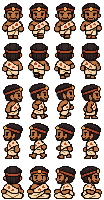
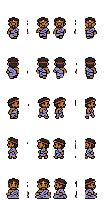
Dress Kang in light indigo and deliver cozy watercolor portrait and bust events

diff --git a/test/kangPaintings.test.ts b/test/kangPaintings.test.ts
@@ -1,0 +1,31 @@
+import {readFileSync} from 'node:fs';
+import {join} from 'node:path';
+import {expect,it} from 'vitest';
+import {portraitFor} from '../src/ui/portraits';
+import {preferredArt} from '../src/ui/art';
+import {beatEvent,storylines} from '../src/content/storylines';
+
+function dimensions(file:string):number[]{
+  const png=readFileSync(file);
+  expect(png.subarray(1,4).toString()).toBe('PNG');
+  return [png.readUInt32BE(16),png.readUInt32BE(20)];
+}
+
+it('shows Kang’s delivered watercolor in his conversation, without the silhouette fallback',()=>{
+  expect(portraitFor('npc_priest_kang')).toMatch(/priest-kang-painted/);
+  const file=join(__dirname,'../src/ui/portraits/priest-kang-painted.png');
+  expect(dimensions(file)).toEqual([256,256]);
+  expect([2,6]).toContain(readFileSync(file)[25]); // Full-colour RGB/RGBA, never an indexed palette.
+});
+
+it('resolves the carving and unveiling cards to their distinct delivered paintings',()=>{
+  const arc=storylines.find(s=>s.id==='storyline_twin_kang_bust')!;
+  for(const id of ['carving','unveiling']){
+    const beat=arc.beats.find(b=>b.id===id)!, event=beatEvent(arc,beat);
+    const picture=preferredArt('events',[event.artVariant,event.art,event.artFallback]);
+    expect(picture).toContain(`story-storyline_twin_kang_bust-${id}-painted`);
+    const file=join(__dirname,`../src/ui/events/story-storyline_twin_kang_bust-${id}-painted.png`);
+    expect(dimensions(file)).toEqual([512,384]);
+    expect([2,6]).toContain(readFileSync(file)[25]);
+  }
+});

diff --git a/src/content/storylines.ts b/src/content/storylines.ts
@@ -165,6 +165,9 @@ export function beatEvent(arc: Storyline, beat: Beat): GameEvent {
     // A beat with no painting of its own borrows the arc's person's face nowhere: the card keeps its
     // shape and shows the night's scene or nothing, as every event without art does.
     art: beat.art ?? `story-${arc.id}`,
+    // Delivered beat paintings take precedence over the arc's shared fallback. Canon's explicit
+    // art remains authoritative; presentation-only illustrations need no canon content change.
+    ...(!beat.art ? { artVariant: `story-${arc.id}-${beat.id}` } : {}),
     // ...or, on the road or on arriving, a woven painting of the same kind of moment (`BEAT_FALLBACK`):
     // the card was blank for Guyuk's rumour and for the Atelier without her (the owner, 3 October 2026).
     ...(BEAT_FALLBACK[beat.when] ? { artFallback: BEAT_FALLBACK[beat.when] } : {}),

diff --git a/e2e/twin-stories.spec.ts b/e2e/twin-stories.spec.ts
@@ -19,6 +19,9 @@ test('Kang offers an optional commission and keeps a declined invitation open', 
   await expect(page.getByRole('dialog', { name: 'A Place for a Likeness' })).not.toBeVisible();
   const ask = async () => {
     await page.locator('button.who').filter({ hasText: 'Priest Kang' }).click();
+    const portrait=page.locator('.conversation img.person-portrait').first();
+    await expect(portrait).toHaveAttribute('src',/priest-kang-painted/);
+    await expect.poll(()=>portrait.evaluate((img:HTMLImageElement)=>img.complete&&img.naturalWidth===256)).toBe(true);
     await page.getByRole('button', { name: 'Ask about making the bust', exact: true }).click();
   };
   await ask();

diff --git a/docs/twin-kang-watercolor-prompts.md b/docs/twin-kang-watercolor-prompts.md
@@ -1,0 +1,45 @@
+# Kang — light indigo and cozy watercolor update
+
+Owner update, 17 November 2026. Style reference: `exec-ad76b05a-607c-4b1a-b4b8-d00b7ef007c3.png`
+from the supplied local generated-images folder. The reference controls watercolor style;
+Kang's established sprite controls identity. His new portrait then controls both event cards.
+The map bust remains carved sandstone. The live character always wears light indigo.
+
+## Exact prompts
+
+### Indigo NES JRPG character
+
+> Edit the SECOND reference character sprite atlas only, using FIRST reference as context only. Preserve exact 4-column by5-row twenty-pose layout, every facing, animation, cute face, beard, headband, skin and proportions. Change Priest Kang's cream dress and wrap skirt to LIGHT INDIGO: airy pale lavender-blue naturally dyed cloth with muted darker indigo fold shadows and few simple darker indigo trefoil motifs. His skin stays warm brown. Exact art direction 'nes jrpg sprite'. Keep chunky simple 8-bit pixels, not painted. Walking rows south,north,east,west; seated row north,south,west,east. Fully transparent background, generous transparent gutters separating5rows and4columns, no halo, no labels. All twenty poses remain same person wearing same light indigo dress. Logical target26x40 per pose. No new props. Render the sprite atlas ONLY.
+
+### Conversation portrait
+
+> Paint a square head-and-shoulders conversation portrait of Priest Kang for a cozy naturalist game. FIRST reference controls simple cozy watercolor and fine ink on warm cream paper, warm sunlight, restrained earth colours, gentle broad washes, uncluttered leafy Harappan courtyard background. SIMPLIFY the reference's tiny photographic texture, soft storybook watercolor, not anime, not pixel art. SECOND reference controls identity only: adult Harappan man warm medium-brown skin, handsome strong square jaw and cheekbones, straight broad nose, calm slightly narrowed eyes, slicked short dark hair, short neat dark beard and moustache, narrow headband with round central ornament. His LIGHT INDIGO one-shoulder dress/cloak is the prominent colour; airy pale lavender-blue natural-dyed cloth, a few broad subtle trefoil motifs, light indigo lower wrap implied. Do not use cream as his main dress. Friendly confident quiet smile, eye contact at slight three-quarter angle. Evoke the Indus Priest-King facial features as a fictional living character, no crown, no fantasy armor, no text or frame. Readable at native256x256 delivery, simple watercolor portrait, no microscopic detail.
+
+### Carving event
+
+> Create a wide4:3 event-card watercolor painting for a cozy peaceful naturalist JRPG. FIRST reference controls warm cream paper, cozy simple watercolor with loose fine ink and broad gentle washes; simplify detail and tiny texture, NOT pixel art, NOT anime. SECOND reference controls Priest Kang's face and LIGHT INDIGO one-shoulder dress exactly: warm brown Harappan man, short dark beard, square jaw, slicked dark hair, headband with round medallion. He wears pale lavender-blue indigo cloth with subtle broad trefoil motifs. Ancient Harappan brick architecture, no fantasy crown, no modern tools, no text, no labels, no graphic border. Readable at512x384 delivery. Keep important faces and action within central80percent with airy margins. Scene: A Face Coming Out of Stone. A local Harappan stone carver works gently with a small chisel and wooden mallet on a pale sandstone life-size head-and-shoulders bust of Kang in a shady open-sided earthen workshop. Kang sits nearby in his light indigo dress, watching his likeness with a gentle smile. The bust repeats his short beard, headband and one-shoulder cloak in carved sandstone, NOT living skin or indigo painted stone. The bust on a low bench has a partly roughed shoulder, its face almost complete. A clay study and reused brick base nearby explain the craft. One other maker steadies the modest base. Quiet collaborative afternoon, warm indirect sunlight, simple clear composition with carver/bust/Kang focal triangle, respectful believable hands, no violence, no giant monument.
+
+### Unveiling event
+
+> Create a wide4:3 event-card watercolor painting for a cozy peaceful naturalist JRPG. FIRST reference controls warm cream paper, cozy simple watercolor with loose fine ink and broad gentle washes; simplify detail and tiny texture, NOT pixel art, NOT anime. SECOND reference controls Priest Kang's face and LIGHT INDIGO one-shoulder dress exactly: warm brown Harappan man, short dark beard, square jaw, slicked dark hair, headband with round medallion. He wears pale lavender-blue indigo cloth with subtle broad trefoil motifs. Ancient Harappan brick architecture, no fantasy crown, no modern tools, no text, no labels, no graphic border. Readable at512x384 delivery. Keep important faces and action within central80percent with airy margins. Scene: A Likeness With Room Around It. In Harappa's living courtyard beneath a neem tree, the completed life-size sandstone head-and-upper-chest bust of Priest Kang stands on a modest low reused-brick plinth, outside the tree root ring. Kang in light indigo dress stands beside it, clearly recognizable as the sitter; the statue repeats his face/headband/beard/cloak in stone tones. A Harappan woman gardener in muted green and a local maker admire the work, another resident sits peacefully beside water jars in the shade. Clear wide walking passage, roots undisturbed. Soft morning sunshine, gentle shared satisfaction, ordinary welcoming civic life rather than a royal ceremony, no crowd or banners, no oversized statue. Loose cozy watercolor with restrained earth palette and light indigo focal cloth.
+
+## Delivery and wiring
+
+- Character raw `exec-c43e0cf2-ac5a-4e17-b683-ed08b43161e5.png`; compact RGBA source and runtime
+  twenty-frame strip replace Kang's previous cream clothing using crop/nearest-neighbour resize.
+- Portrait raw `exec-12719a34-8e09-4302-af85-708960758556.png`, delivered at 256×256 as
+  `src/ui/portraits/priest-kang-painted.png`.
+- Carving raw `exec-fe6dcc95-6c2c-419d-a2e3-bee7b2a3dd0d.png`, delivered at 512×384 as
+  `src/ui/events/story-storyline_twin_kang_bust-carving-painted.png`.
+- Unveiling raw `exec-8666ea6d-463a-4f25-b46d-f02fffcc9714.png`, delivered at 512×384 as
+  `src/ui/events/story-storyline_twin_kang_bust-unveiling-painted.png`.
+- Large raw paintings stay under existing ignored `assets/source/portraits/` and `assets/source/events/`;
+  sprite raw stays under ignored `dump/twin-city-art-review/kang/`. Track only compact runtime art,
+  the compact sprite source and this production ledger.
+- Rebuild portrait with `node tools/build-plates.js --portraits --full-colour --only=priest-kang-painted`.
+  Rebuild each event with `--events --full-colour --only=<filename without .png>`.
+  No palette reduction, quantization or lossy image compression. Existing accepted images remain.
+- `portraitFor('npc_priest_kang')` automatically prefers the new named portrait.
+  `beatEvent` now supplies a beat-specific art variant when canon has no explicit artwork.
+  EventCard resolves that variant before its shared arc/arrival fallback; canon's explicit art
+  stays authoritative. No extra quest is added and no story prose is duplicated or rewritten.

diff --git a/docs/twin-cities-art-status.md b/docs/twin-cities-art-status.md
@@ -1,0 +1,104 @@
+# Harappan phased plan — completion audit
+
+17 November 2026. Current companion to the [original plan](twin-cities-art-plan.md).
+Counts are checked against the exported valley roster and delivered preferred paintings.
+Existing pixel editions remain playable fallbacks; these are remaining paintings, not missing quests.
+
+## Completed
+
+- Accepted city map, north/south bridge correction, terrain depth, house/courtyard detail,
+  riverbanks and terminal turns. No further detailed map repaint is required.
+- Sixteen places and fifteen named NPC identities, ethnicity/language metadata and names,
+  conversation goals, saved-map cave addition and optional story states.
+- Beedu: accepted small SNES art, one coastal flyer, sand emergence/return, shadow,
+  actual-sighting event and witness dialogue. Leave its accepted image unchanged.
+- Cave: generated Mirlepa/Yamantaka NES JRPG sheets, alternating local walks/seated rests,
+  intermittent helpers and prayer flags/Icmic cooker/bonfire with six monthly arrangements.
+- Generated NES JRPG fox, otter, crane, pelican and sixteen ostrich-tram poses.
+- Four generated named NES JRPG identities: Nemi, Kang, Mirlepa and Yamantaka. The other
+  eleven retain existing compact NES sheets; replacements are optional scope.
+- All thirteen main conversation portraits now have preferred painted deliveries, including
+  Kang in light indigo. Denisovan portraits retain their approved anime exception.
+- Kang's optional five-beat commission/site/preparation/carving/unveiling quest, persistent
+  three-stage life-size NES JRPG bust, and distinct cozy watercolor carving/unveiling cards.
+- Art direction matrix, prompt ledgers and ignored screenshot/raw-art storage.
+
+## Remaining phases
+
+| Phase | Required deliverable | Planning effort |
+| --- | --- | --- |
+| A. Events and travel | 19 event paintings, prioritizing cave welcome and Beedu sighting; 2 journey banners | 1–2 focused days |
+| B. Place views | 15 cozy watercolor panels, including Windward Cave; maintain identity/ecology | 1–2 focused days |
+| C. Integrated review | Card crops, map readability, dusk/fog, both input modes, cave timing, Beedu, tram turns, save/reload and frame cost; fix findings; exact-head CI and owner review/merge | 0.5–1 focused day, plus pipeline time |
+
+**36 required illustrations remain: 19 events + 15 places + 2 journeys.** Previously 39;
+Kang's portrait and two bust paintings close three items. Gameplay coding being complete does
+not close the visual programme. Estimates allow generation/continuity iterations and are not
+a completion promise. Run tests at phase boundaries.
+
+Optional outside those 36: separate commission/site/preparation card takes, bespoke helper
+portraits, generated replacements for the other eleven NPC sheets, and further seasonal
+vegetation/bird/harness polish if retained at final review. No new date system, transport route,
+quest gate or Beedu repaint is required.
+
+## Verification and publication
+
+Kang's portrait and both event paintings are registered as retained art and checked through
+the actual conversation/event art resolvers. Beat-specific image selection is game presentation;
+the existing story stays in canon. Current phase checks and exact-head CI status are recorded
+in the implementation ledger/PR. Integrated visual/performance review above remains open.
+
+## Exact remaining event paintings
+
+Target `src/ui/events/`; simple cozy watercolor.
+
+| Event | Required preferred filename |
+| --- | --- |
+| Two Cities, One Crossing | `happening_twin_arrival-painted.png` |
+| The Bank We Kept | `happening_twin_bank-painted.png` |
+| A Shadow Leaves the Sand | `happening_twin_beedu_flight-painted.png` |
+| The Cool Side | `happening_twin_brick-painted.png` |
+| A Place at Supper | `happening_twin_camp-painted.png` |
+| The Longer Road | `happening_twin_carrier-painted.png` |
+| Room Beside the Fire | `happening_twin_cave_arrival-painted.png` |
+| What the Cities Kept | `happening_twin_closing-painted.png` |
+| Where the Water Changes | `happening_twin_cove-painted.png` |
+| The Drain Left Growing | `happening_twin_drain-painted.png` |
+| The Empty Lane | `happening_twin_lane-painted.png` |
+| The Bird Knows Both Yards | `happening_twin_ostrich-painted.png` |
+| A Workshop With Tenants | `happening_twin_workshop-painted.png` |
+| Between Arrivals | `happening_valley_bird_return-painted.png` |
+| A Place at the Edge | `happening_valley_courtyard_return-painted.png` |
+| The Next Repair | `happening_valley_reed_return-painted.png` |
+| A Little Give | `happening_valley_seam-painted.png` |
+| A Room for the Tide | `happening_valley_tide_room-painted.png` |
+| The Sand That Stayed | `happening_valley_windbreak-painted.png` |
+
+## Exact remaining place views
+
+Target `src/ui/places/`; cozy watercolor.
+
+| Place | Required preferred filename |
+| --- | --- |
+| The Raised Brick Quarter | `poi_brick_quarter-painted.png` |
+| The Sheltered Caravan Ground | `poi_desert_ground-painted.png` |
+| The Divided Drain | `poi_drain_court-painted.png` |
+| The Dune Windbreak | `poi_dune_windbreak-painted.png` |
+| The Earthen Workshop | `poi_earthen_workshop-painted.png` |
+| Harappa Tram Yard | `poi_harappa_station-painted.png` |
+| The Nesting Cove | `poi_nesting_cove-painted.png` |
+| The Unroofed Rooms | `poi_nesting_ruins-painted.png` |
+| The Windward Cave | `poi_northwest_cave_camp-painted.png` |
+| The Planted Rooms | `poi_planted_ruins-painted.png` |
+| The Three Channels | `poi_reed_junction-painted.png` |
+| The Reedwright's Bank | `poi_reedwright_bank-painted.png` |
+| The Open Crossing | `poi_twin_causeway-painted.png` |
+| The Quiet Coves | `poi_twin_cove-painted.png` |
+| The Southern Landing | `poi_twin_landing-painted.png` |
+
+## Exact remaining journey banners
+
+Target `src/ui/events/`. Existing journey paintings remain fallbacks.
+
+- `journey-aravali-twins-painted.png`
+- `journey-lothal-twins-painted.png`

diff --git a/docs/twin-cities-art-plan.md b/docs/twin-cities-art-plan.md
@@ -6,9 +6,9 @@ Kang now also uses a generated **“nes jrpg sprite”** twenty-pose overworld s
 quest stages share the same face, headband, beard and cloak silhouette, rendered in sandstone.
 Both use compact RGBA sources and resize-only delivery. See [the exact prompt/rebuild ledger](twin-kang-jrpg-prompts.md).
 Four of fifteen named overworld identities now have generated JRPG sheets; the other eleven
-retain their preceding compact NES sheets. The dedicated painted Kang portrait is still pending:
-conversation currently uses the generic SVG fallback. The 39 outstanding illustrations are
-unchanged by this map-art delivery. Beedu remains unchanged.
+retain their preceding compact NES sheets. Kang now wears light indigo and has a delivered
+cozy watercolor conversation portrait plus carving and unveiling event paintings. Required
+remaining illustrations: 36 (19 happenings, 15 place views, 2 journeys). Beedu remains unchanged.
 
 ## Cave household update — 17 November 2026
 
@@ -81,21 +81,22 @@ phase, then final visual/performance review and passing CI; do not start another
 | Accepted city map, bridges, depth and terminal turns | Prior merged map work retained | Final integrated review; no detailed map regeneration |
 | Named map identities | All 15 identities built as simple NES sheets | Runtime/pipeline regression checks |
 | Cave, helpers, beedu, optional Kang bust | Implemented with canon, saved-map addition and conversation wiring | Phase-end checks and review |
-| Main cast portraits | 12 of 13 preferred portraits delivered, including corrected Kia and Denisovan designs | Kang's reference-based portrait |
+| Main cast portraits | All 13 preferred portraits delivered, including Kang in light indigo | Final integrated likeness/crop review |
 | Authored happenings | 1 of 20 has a preferred painted edition; existing pixel editions/fallbacks retained | 19 paintings, including cave welcome and beedu sighting |
 | Individual place views | 1 of 16 has a preferred painted edition | 15 views, including Windward Cave |
 | Journey banners | Existing editions retained | 2 preferred paintings |
-| Bust story illustrations | Existing story fallback is used; no missing art filename is advertised | Required carving and unveiling paintings; optional separate commission/site/preparation takes |
+| Bust story illustrations | Carving and unveiling cozy watercolor paintings delivered and selected per quest beat | Optional commission/site/preparation takes only |
 | Further ambient polish | Existing map presentation accepted | Seasonal variants and bespoke bird/harness motion remain unfinished; decide during final polish review whether to retain that scope |
-| Publication | Fresh review branches prepared in both repos | Commit, push, linked PRs and full exact-head pipeline |
+| Publication | Game PR #262 and lore art-docs PR #169 are open; lore story PR #168 merged | Latest exact-head CI, owner review and merge |
 
-**Remaining required illustration inventory: 39 images** (1 portrait + 19 happenings +
-15 place views + 2 journeys + 2 bust paintings), plus any separately retained optional takes.
-This is an asset count, not 39 coding tasks. Helpers do not require bespoke portraits.
+**Remaining required illustration inventory: 36 images** (19 happenings + 15 place views +
+2 journeys), plus separately optional takes. Kang’s portrait and both bust paintings are complete.
+This is an asset count, not 36 coding tasks. Helpers do not require bespoke portraits.
+See the [audited phased checklist and exact pending filenames](twin-cities-art-status.md).
 The current implementation can be reviewed and played with existing art fallbacks.
 
-For scheduling, reserve roughly **1–3 focused working days for illustration generation,
-inspection, continuity corrections and delivery**, then pipeline/visual review and any fixes.
+For scheduling, reserve roughly **2–4 focused working days for the remaining illustration
+batches and continuity corrections**, then **0.5–1 day for integrated visual/performance review**.
 This is a revised planning estimate, not a measured completion promise; the older 17–32 day
 estimate describes the entire story expansion from its beginning, not work still remaining.
 

diff --git a/docs/art-direction.md b/docs/art-direction.md
@@ -11,13 +11,13 @@ a request to repaint them.
 | Overworld people and helpers | **“nes jrpg sprite”** | Cute large round heads, small bodies, short limbs, expressive eyes, warm dark outlines and simple pixel clusters; use the carrier and approved Nemi/Mirlepa/Yamantaka as references |
 | Wandering animals | **“nes jrpg sprite”** | Friendly expressive faces, recognizable ears/muzzle/bill/tail, compact bodies, proper right/left/front/back views |
 | Ostrich/emu tram and new small map vehicles | **“nes jrpg sprite”** | Bird visibly pulls the carriage, clear wheels/harness/stride, genuine front/back views, existing frame sizes |
-| Priest Kang and his map bust statue | **“nes jrpg sprite”** | Matching beard, headband and cloak; three simple sandstone quest stages; [prompt ledger](twin-kang-jrpg-prompts.md). His painted dialogue portrait remains pending |
+| Priest Kang and his map bust statue | **“nes jrpg sprite”** | Matching beard, headband and cloak; three simple sandstone quest stages; [prompt ledger](twin-kang-jrpg-prompts.md). Light-indigo dress; his dialogue portrait and bust event cards use the owner’s cozy watercolor reference |
 | Northwest cave flags, cooker and bonfire | **“nes jrpg sprite”** | Simple 32px props with paired states; six five-day arrangements per journey month; [prompt ledger](twin-cave-jrpg-prompts.md) |
 | Beedu on the map | **Small 16-bit SNES pixel sprite — sole creature exception** | Accepted art stays; curved ray wings, restrained colour ramps and tail, existing small atlas/singleton/shadow/path |
 | Terrain, buildings, props, plants, boundaries | **Simple high-quality 8-bit NES-style map art** | Sparse detail and clear silhouettes/routes; quality comes from composition, layers, elevation/water separation and restrained gradient/contact shadows |
-| NPC portraits and random faces | **Painted watercolor and fine ink on warm paper** | Rich off-map detail; preserve age, culture and face/costume continuity. Kia: airy wraps/flowers. Kang: Priest-King reference with strong jaw |
+| NPC portraits and random faces | **Simple cozy watercolor and fine ink on warm paper** | Rich off-map detail; preserve age, culture and face/costume continuity. Kia: airy wraps/flowers. Kang: Priest-King reference with strong jaw |
 | Mirlepa and Yamantaka portraits only | **JoJo-inspired anime in the existing earth palette** | Fair Tibetan-inspired fictional Denisovan faces and Kalash-inspired dress; Yamantaka has three heads. Their map sprites remain NES JRPG |
-| Events, story/activity scenes, journey banners | **Rich narrative watercolor / fine ink** | Readable moment, correct people/place and depth planes, composed for the card crop; not limited to NES detail |
+| Events, story/activity scenes, journey banners | **Simple cozy narrative watercolor / fine ink** | Readable moment, correct people/place and depth planes, composed for the card crop; not limited to NES detail |
 | Place views | **Painted landscape watercolor** | Recognizable architecture/ecology, broad depth planes and wide-panel composition |
 | Species notebook plates | **Watercolor natural-history field study** | Recognizable anatomy, warm paper and a few habitat strokes; separate from map sprites |
 | UI marks, tools, categories and icons | **Existing SVG/code-native line art** | Established strokes and geometry, legible at UI size |

diff --git a/docs/twin-valley-implementation.md b/docs/twin-valley-implementation.md
@@ -1,14 +1,29 @@
 # Twin-valley implementation ledger
 
+## Latest Kang and phase status — 17 November 2026
+
+Phase-end verification: typecheck, 1,239 focused content/art/retention checks, production build
+and bundle budgets pass. The real Kang conversation/optional commission browser case passes,
+including loading the new 256px portrait. Unit integration checks select distinct carving and
+unveiling paintings through the actual event resolver. Initial test-reader RGB/RGBA mismatch was
+corrected; final output is full-colour RGB, without quantization. Latest-head CI remains required.
+
+Kang's NES JRPG sprite now wears **light indigo**. His conversation portrait and the statue
+carving/unveiling cards use the owner's initial **simple cozy watercolor** style. The optional
+five-beat bust quest and three persistent map stages are wired; these are distinct delivered
+paintings, not a generic event fallback. Full-colour resize only. The current required art
+backlog is **36 images**; see [the phased checklist](twin-cities-art-status.md) and
+[original plan checkpoint](twin-cities-art-plan.md#conclusion-checkpoint--17-november-2026).
+
 ## Priest Kang character and bust — 17 November 2026
 
 Kang now also uses a generated **“nes jrpg sprite”** twenty-pose overworld sheet. His three bust
 quest stages share the same face, headband, beard and cloak silhouette, rendered in sandstone.
 Both use compact RGBA sources and resize-only delivery. See [the exact prompt/rebuild ledger](twin-kang-jrpg-prompts.md).
 Four of fifteen named overworld identities now have generated JRPG sheets; the other eleven
-retain their preceding compact NES sheets. The dedicated painted Kang portrait is still pending:
-conversation currently uses the generic SVG fallback. The 39 outstanding illustrations are
-unchanged by this map-art delivery. Beedu remains unchanged.
+retain their preceding compact NES sheets. Kang now wears light indigo and has a delivered
+cozy watercolor conversation portrait plus carving and unveiling event paintings. Required
+remaining illustrations: 36 (19 happenings, 15 place views, 2 journeys). Beedu remains unchanged.
 
 ## Cave household update — 17 November 2026
 
@@ -138,8 +153,9 @@ portraits: JoJo-inspired anime linework, fairer Tibetan-inspired faces, Kalash-i
 dress, the established earth palette, and exactly three heads for Yamantaka. Kia portraits were
 corrected against existing Kia face references to light open wraps and marsh flowers, preserving
 their faces and ages. All were resized only, without colour quantization. Sources stay ignored.
-No paid CLI/API fallback was used. Kang, remaining event/place views and journey paintings are
-still pending; no completed reference-faithful Kang portrait or full art inventory is claimed.
+No paid CLI/API fallback was used. At that earlier checkpoint Kang’s portrait and the remaining
+event/place/journey paintings were pending; the latest Kang delivery and current 36-image list
+are recorded above.
 
 Generated portraits/event paintings use the existing preferred-edition path and art
 manifest. Follow `twin-portrait-prompts.md` and the original

diff --git a/docs/twin-kang-jrpg-prompts.md b/docs/twin-kang-jrpg-prompts.md
@@ -4,15 +4,17 @@ Owner update, 17 November 2026. Follow [the element guide](art-direction.md).
 
 Kang's overworld character and all three quest bust stages use the exact **“nes jrpg sprite”**
 direction. Large expressive head, compact body, short dark beard, broad jaw, narrow headband
-with a round ornament, cream single-shoulder wrap and a few broad terracotta cloak marks.
+with a round ornament, light-indigo single-shoulder wrap and a few broad darker-indigo cloak marks.
 The finished bust repeats those features in sandstone tones. It is a head-and-upper-chest bust
 on a modest plinth, not a full-body statue. The first two frames remain the empty plinth and
 partly carved likeness, preserving the existing optional quest and saved flags.
 
-**Portrait status:** no `src/ui/portraits/priest-kang*.png` exists in this revision. Conversation
-uses the language-coloured SVG fallback from `PersonPortrait.tsx`, not a dedicated painted face.
-Kang's reference-checked watercolor portrait remains one of the original plan's 39 outstanding
-illustrations. The new sprite face is a map design, not a completed archaeological portrait study.
+**Current portrait status:** `src/ui/portraits/priest-kang-painted.png` is now delivered and
+selected for conversation. His carving and unveiling cards use distinct cozy watercolor paintings,
+matching the owner-provided `exec-ad76b05a-607c-4b1a-b4b8-d00b7ef007c3.png` style reference.
+The stone bust remains sandstone; light indigo belongs to Kang's living dress. The optional
+five-beat quest already existed and now selects these paintings per beat. Original cream-sprite
+prompts below are production history, superseded by the [indigo/watercolor update](twin-kang-watercolor-prompts.md).
 
 ## Exact generation prompts
 

diff --git a/docs/twin-portrait-prompts.md b/docs/twin-portrait-prompts.md
@@ -1,5 +1,14 @@
 # Twin-city portrait prompts
 
+## Latest Kang and phase status — 17 November 2026
+
+Kang's NES JRPG sprite now wears **light indigo**. His conversation portrait and the statue
+carving/unveiling cards use the owner's initial **simple cozy watercolor** style. The optional
+five-beat bust quest and three persistent map stages are wired; these are distinct delivered
+paintings, not a generic event fallback. Full-colour resize only. The current required art
+backlog is **36 images**; see [the phased checklist](twin-cities-art-status.md) and
+[original plan checkpoint](twin-cities-art-plan.md#conclusion-checkpoint--17-november-2026).
+
 > **Current art forms (17 November 2026):** Follow [the element-by-element guide](art-direction.md#current-element-by-element-direction--17-november-2026). New overworld people, wandering animals and trams use **“nes jrpg sprite”**; Beedu alone keeps its accepted small SNES art. Terrain/buildings remain simple NES; off-map portraits/events/places/plates remain painted, with the two Denisovan portrait exceptions. Older prompts below are production history where they conflict; new delivery uses resize only, without colour reduction.
 
 ## Final Kia costume correction — controls earlier prompts

diff --git a/docs/twin-overworld-jrpg-prompts.md b/docs/twin-overworld-jrpg-prompts.md
@@ -6,9 +6,9 @@ Kang now also uses a generated **“nes jrpg sprite”** twenty-pose overworld s
 quest stages share the same face, headband, beard and cloak silhouette, rendered in sandstone.
 Both use compact RGBA sources and resize-only delivery. See [the exact prompt/rebuild ledger](twin-kang-jrpg-prompts.md).
 Four of fifteen named overworld identities now have generated JRPG sheets; the other eleven
-retain their preceding compact NES sheets. The dedicated painted Kang portrait is still pending:
-conversation currently uses the generic SVG fallback. The 39 outstanding illustrations are
-unchanged by this map-art delivery. Beedu remains unchanged.
+retain their preceding compact NES sheets. Kang now wears light indigo and has a delivered
+cozy watercolor conversation portrait plus carving and unveiling event paintings. Required
+remaining illustrations: 36 (19 happenings, 15 place views, 2 journeys). Beedu remains unchanged.
 
 The two generated cave residents now alternate short local walks and seated rests; both use
 their existing twenty-pose sheets. See [cave props and schedule](twin-cave-jrpg-prompts.md).

diff --git a/docs/twin-cities.md b/docs/twin-cities.md
@@ -1,5 +1,14 @@
 # Harappa and Mohenjodaro
 
+## Latest Kang and phase status — 17 November 2026
+
+Kang's NES JRPG sprite now wears **light indigo**. His conversation portrait and the statue
+carving/unveiling cards use the owner's initial **simple cozy watercolor** style. The optional
+five-beat bust quest and three persistent map stages are wired; these are distinct delivered
+paintings, not a generic event fallback. Full-colour resize only. The current required art
+backlog is **36 images**; see [the phased checklist](twin-cities-art-status.md) and
+[original plan checkpoint](twin-cities-art-plan.md#conclusion-checkpoint--17-november-2026).
+
 ## Cave household update — 17 November 2026
 
 Mirlepa and Yamantaka now take turns sitting and walking beside the northwest cave. Each
